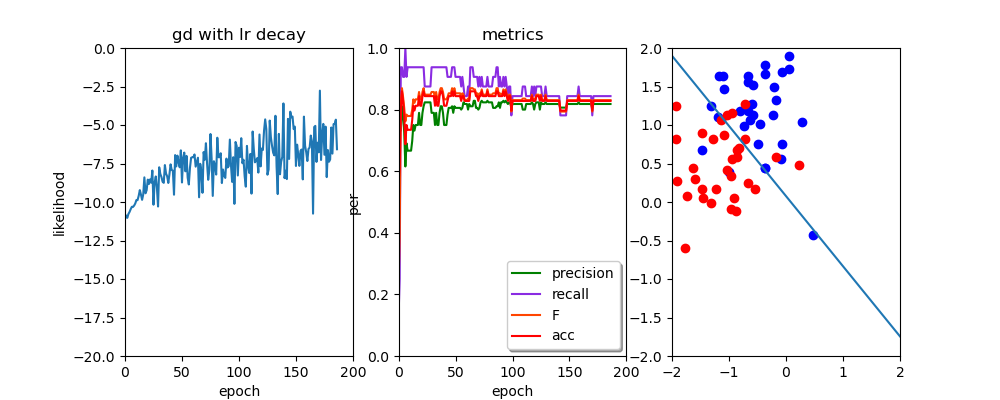
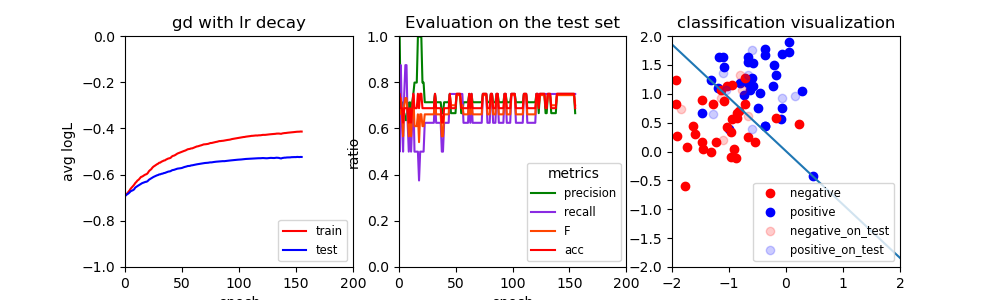
update

diff --git a/hw2/logistic_gd.py b/hw2/logistic_gd.py
@@ -38,11 +38,12 @@ class Logistic:
         mean = np.mean(self.x_train)
         variance = np.std(self.x_train)
         self.x_train = (self.x_train - mean) / variance
-        self.x_test = (self.x_train - mean) / variance
+        self.x_test = (self.x_test - mean) / variance
+
         self.x_train = np.insert(self.x_train, 0, values=1.0, axis=1)
-        self.x_test = np.insert(self.x_train, 0, values=1.0, axis=1)
+        self.x_test = np.insert(self.x_test, 0, values=1.0, axis=1)
         self.y_train = self.y_train.reshape(self.N, 1)
-        self.y_test = self.y_train.reshape(self.N, 1)
+        self.y_test = self.y_test.reshape(self.x_test.shape[0], 1)
         self.M += 1
 
     def shuffle(self):
@@ -60,19 +61,27 @@ class Logistic:
         return _x, _y
 
     def gradient(self):
-        l = 0
+        l1 = 0
+        l2 = 0
         g = np.zeros((1, 3))
         x, y = self.shuffle()
         for i in range(len(y)):
             _ = sigmoid(x[i] @ self.theta.T)
             g += (y[i] - _) * x[i]
-            l += y[i] * math.log(_) + (1 - y[i]) * math.log(1 - _)
-        return g, l
+        for i in range(self.x_train.shape[0]):
+            _ = sigmoid(self.x_train[i] @ self.theta.T)
+            l1 += self.y_train[i] * math.log(_) + (1 - self.y_train[i]) * math.log(1 - _)
+        for i in range(self.x_test.shape[0]):
+            _ = sigmoid(self.x_test[i] @ self.theta.T)
+            l2 += self.y_test[i] * math.log(_) + (1 - self.y_test[i]) * math.log(1 - _)
+        l1 /= self.x_train.shape[0]
+        l2 /= self.x_test.shape[0]
+        return g, l1, l2
 
     def validate(self):
         theta = self.theta
-        x_test = self.x_train
-        y_test = self.y_train
+        x_test = self.x_test
+        y_test = self.y_test
         TP, FP, FN, TN = 0, 0, 0, 0
         for i in range(len(y_test)):
             predict = 1 if float(x_test[i] @ self.theta.T) >= 0 else 0
@@ -85,9 +94,9 @@ class Logistic:
                 FP += 1
             elif predict == 1 and label == 1:
                 TP += 1
-        precision = TP / (TP + FP+0.01)
-        recall = TP / (TP + FN+0.01)
-        F = 2 * precision * recall / (precision + recall)
+        precision = TP / (TP + FP + 0.01)
+        recall = TP / (TP + FN + 0.01)
+        F = 2 * precision * recall / (precision + recall+0.01)
         acc = (TP + TN) / (TP + TN + FP + FN)
         return precision, recall, F, acc
 
@@ -96,20 +105,20 @@ class Logistic:
         # self.shuffle()
         self.normalization()
         plt.ion()
-        plt.figure(figsize=(10, 4))
+        plt.figure(figsize=(10, 3))
         precision, recall, F, acc = [], [], [], []
-        _loss = []
+        _loss1 = []
+        _loss2 = []
         _i = []
 
         for i in range(self.epoch):
             _i.append(i)
             if i % 100 == 0 and self.is_decay:
                 self.lr = self.lr * self.lr_decay
-            g, l = self.gradient()
+            g, l1, l2 = self.gradient()
             self.theta += self.lr * g
-            _loss.append(l)
             _precision, _recall, _F, _acc = self.validate()
-            print("epoch:{} acc:{}".format(i, _acc))
+            print("epoch:{} acc:{} l1:{} l2:{}".format(i, _acc, l1, l2))
             precision.append(_precision)
             recall.append(_recall)
             F.append(_F)
@@ -118,34 +127,48 @@ class Logistic:
             plt.subplot(1, 3, 1)
             plt.title("gd with lr decay" if self.is_decay else "gd without lr decay")
             plt.xlim((0, self.epoch))
-            plt.ylim((-20, 0))
+            plt.ylim((-1, 0))
             plt.xlabel("epoch")
-            plt.ylabel("likelihood")
-            plt.plot(_i, _loss)
+            plt.ylabel("avg logL")
+            _loss1.append(l1)
+            _loss2.append(l2)
+            line1, = plt.plot(_i, _loss1, 'r')
+            line2, = plt.plot(_i, _loss2, 'b')
+            plt.legend((line1, line2), ('train', 'test'), loc='lower right', fontsize='small')
             # plt.figure(2)
             plt.subplot(1, 3, 2)
-            plt.title("metrics")
             plt.xlim((0, self.epoch))
             plt.ylim((0, 1))
             plt.xlabel("epoch")
-            plt.ylabel("per")
+            plt.ylabel("ratio")
+            plt.title("Evaluation on the test set")
             l1, = plt.plot(_i, precision, color='green')
             l2, = plt.plot(_i, recall, color='blueviolet')
             l3, = plt.plot(_i, F, color='orangered')
             l4, = plt.plot(_i, acc, color='red', label='acc')
-            plt.legend((l1, l2, l3, l4), ('precision', 'recall', 'F', 'acc'), loc='lower right', shadow=True)
+            plt.legend((l1, l2, l3, l4), ('precision', 'recall', 'F', 'acc'), loc='lower right', fontsize='small',
+                       title='metrics')
 
             plt.subplot(1, 3, 3)
             plt.xlim((-2, 2))
             plt.ylim((-2, 2))
+            p1, p2, p3, p4 = None, None, None, None
             for i in range(self.x_train.shape[0]):
                 if self.y_train[i] == 0:
-                    plt.plot(self.x_train[i][1], self.x_train[i][2], 'or')
+                    p1, = plt.plot(self.x_train[i][1], self.x_train[i][2], 'or')
                 else:
-                    plt.plot(self.x_train[i][1], self.x_train[i][2], 'ob')
-            p1 = -(self.theta[0][0] + self.theta[0][1] * 2) / self.theta[0][2]
-            p2 = -(self.theta[0][0] + self.theta[0][1] * -2) / self.theta[0][2]
-            plt.plot([2, -2], [p1, p2])
+                    p2, = plt.plot(self.x_train[i][1], self.x_train[i][2], 'ob')
+            for i in range(self.x_test.shape[0]):
+                if self.y_test[i] == 0:
+                    p3, = plt.plot(self.x_test[i][1], self.x_test[i][2], 'or', alpha=0.2)
+                else:
+                    p4, = plt.plot(self.x_test[i][1], self.x_test[i][2], 'ob', alpha=0.2)
+            point1 = -(self.theta[0][0] + self.theta[0][1] * 2) / self.theta[0][2]
+            point2 = -(self.theta[0][0] + self.theta[0][1] * -2) / self.theta[0][2]
+            plt.title("classification visualization")
+            plt.plot([2, -2], [point1, point2])
+            plt.legend((p1, p2, p3, p4), ('negative', 'positive', 'negative_on_test', 'positive_on_test'),
+                       loc='lower right', fontsize='small')
 
             plt.pause(0.001)
             plt.clf()

diff --git a/hw2/softmax.py b/hw2/softmax.py
@@ -15,14 +15,16 @@ def load_data(path):
     Y_train = np.loadtxt(path + "/train/y.txt", dtype=int)
     X_test = np.loadtxt(path + "/test/x.txt")
     Y_test = np.loadtxt(path + "/test/y.txt", dtype=int)
-    return X_test, Y_test, X_test, Y_test
+    return X_train, Y_train, X_test, Y_test
 
 
 class Softmax(object):
-    def __init__(self, X_train, Y_train, epoch, lr, is_decay, lr_decay, batch_size):
+    def __init__(self, X_train, Y_train, X_test, Y_test, epoch, lr, is_decay, lr_decay, batch_size):
         self.loss = None
         self.X_train = X_train
         self.Y_train = Y_train
+        self.X_test = X_test
+        self.Y_test = Y_test
         # M:特征数，N:样本数 L:类别数
         self.M = X_train.shape[1]
         self.N = X_train.shape[0]
@@ -41,7 +43,10 @@ class Softmax(object):
         variance = np.std(self.X_train)
         self.X_train = (self.X_train - mean) / variance
         self.X_train = np.insert(self.X_train, 0, values=1.0, axis=1)
+        self.X_test = (self.X_test - mean) / variance
+        self.X_test = np.insert(self.X_test, 0, values=1.0, axis=1)
         self.Y_train = self.Y_train.reshape(self.N, 1)
+        self.Y_test = self.Y_test.reshape(self.X_test.shape[0], 1)
         self.M += 1
 
     def train(self):
@@ -53,14 +58,14 @@ class Softmax(object):
             self.theta += self.lr * g
             plt.xlim((-3, 3))
             plt.ylim((-3, 3))
-            for i in range(self.X_train.shape[0]):
+            for i in range(self.X_test.shape[0]):
                 # if you want to train on your own dataset you should change this part
-                if self.Y_train[i] == 0:
-                    plt.plot(self.X_train[i][1], self.X_train[i][2], 'or')
-                elif self.Y_train[i] == 1:
-                    plt.plot(self.X_train[i][1], self.X_train[i][2], 'ob')
-                elif self.Y_train[i] == 2:
-                    plt.plot(self.X_train[i][1], self.X_train[i][2], 'oy')
+                if self.Y_test[i] == 0:
+                    plt.plot(self.X_test[i][1], self.X_test[i][2], 'or')
+                elif self.Y_test[i] == 1:
+                    plt.plot(self.X_test[i][1], self.X_test[i][2], 'ob')
+                elif self.Y_test[i] == 2:
+                    plt.plot(self.X_test[i][1], self.X_test[i][2], 'oy')
             p1 = np.zeros((self.L, 2))
             p2 = np.zeros((self.L, 2))
             for j in range(self.L):
@@ -79,6 +84,8 @@ class Softmax(object):
             plt.clf()
         plt.ioff()
         plt.show()
+        plt.pause(5)
+        plt.close('all')
 
     def shuffle(self):
         # 实现的功能并非shuffle，而是随机挑选数据
@@ -111,14 +118,15 @@ class Softmax(object):
 if __name__ == "__main__":
     parser = argparse.ArgumentParser(
         description=__doc__)
-    parser.add_argument('--data_path', default='./data/Iris', help='data path')
+    parser.add_argument('--data_path', default='./data/Exam', help='data path')
     parser.add_argument('--lr', default=0.01, type=float, help='learning rate')
-    parser.add_argument('--epoch', default=1000, type=int, help='epoch')
+    parser.add_argument('--epoch', default=200, type=int, help='epoch')
     parser.add_argument('--batch_size', default=16, type=int, help='batch_size')
     parser.add_argument('--lr_decay', default=0.9, type=float, help='learning rate decay')
     parser.add_argument('--is_decay', default=True, type=bool, help='choose to use decay')
     args = parser.parse_args()
     X_train, Y_train, X_test, Y_test = load_data(args.data_path)
-    model = Softmax(X_train, Y_train, epoch=args.epoch, lr=args.lr, is_decay=args.is_decay, lr_decay=args.lr_decay,
+    model = Softmax(X_train, Y_train, X_test, Y_test, epoch=args.epoch, lr=args.lr, is_decay=args.is_decay,
+                    lr_decay=args.lr_decay,
                     batch_size=args.batch_size)
     model.train()

diff --git a/hw2/README.md b/hw2/README.md
@@ -1,16 +1,59 @@
-##### Requirements
+# Logistic+Softmax
+
+## Logistic
+
+### 模型假设
+
+$$
+\delta(z)=\frac{1}{1+e^{-z}} \\
+p(y=1|x;\theta)=h(x)=\delta(\theta^{T}x)\\
+p(y=0|x;\theta)=1-h(x)
+$$
+
+统一形式
+$$
+p(y|x;\theta)=h(x)^{y}*(1-h(x))^{1-y}=(\frac{1}{1+e^{-\theta^T X}})^{y}(1-\frac{1}{1+e^{--\theta^T X}})^{1-y}
+$$
+
+
+### 最优化目标
+
+由于模型的假设是通过条件概率的形式表达，那么很自然最优化的目标就是最大化似然函数
+$$
+L(\theta)=\prod_{k=1}^{N}p(y^{(k)}|x^{(k)};\theta)\\
+=\prod_{k=1}^{N}h(x^{(k)})^{y^{(k)}}*(1-h(x^{(k)}))^{1-y^(k)}\\
+=\prod_{k=1}^{N}=(\frac{1}{1+e^{-\theta^T x^{(k)}}})^{y^{(k)}}(1-\frac{1}{1+e^{-\theta^T x^{(k)}}})^{1-y^{(k)}}
+$$
+即
+$$
+\theta^{*}=\arg\max\limits_{\theta}L(\theta)=\arg\max\limits_{\theta}\log(L(\theta))\\
+\log(L(\theta))=\sum_{k=1}^{N}y^{(k)}\log(h(x^{(k)}))*(1-y^{(k)})\log(1-h(x^{(k)}))
+$$
+
+
+### 学习算法
+
+#### 梯度下降(上升)
+
+#### 牛顿法
+
+### 预测
+
+## 实验
+
+#### Requirements
 
 * python 3.7
 * numpy 1.21.5
 * matplotlib 3.5.2
 
-##### Data
+#### Dataset
 
 [Exam dataset](http://www.nustm.cn/member/rxia/ml/data/Exam.zip)
 
 [Iris](http://www.nustm.cn/member/rxia/ml/data/Iris.zip)
 
-##### Files
+#### Files
 
 ```java
 --data
@@ -33,11 +76,11 @@
 --softmax.py
 ```
 
-#### Logistic
-
-##### Start training
+#### Start training
 
 基于windows操作系统
+
+##### Logistic:
 
 GD：
 
@@ -55,9 +98,11 @@ Newton:
 python logistic_newton.py
 ```
 
-#### Softmax
+##### Softmax
 
 ```powershell
 python softmax.py
 ```
+
+#### Result
 
